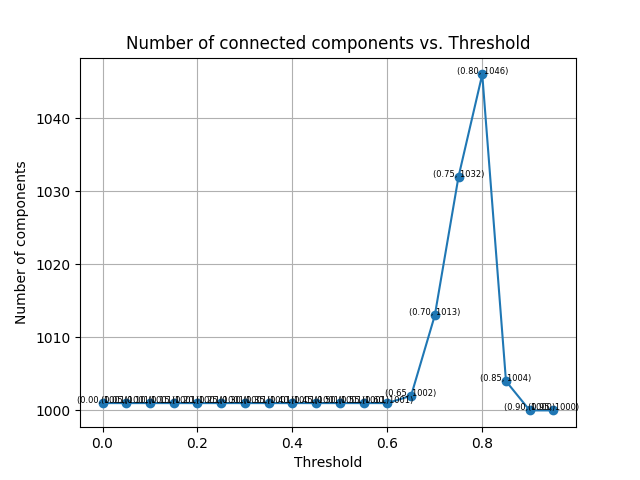
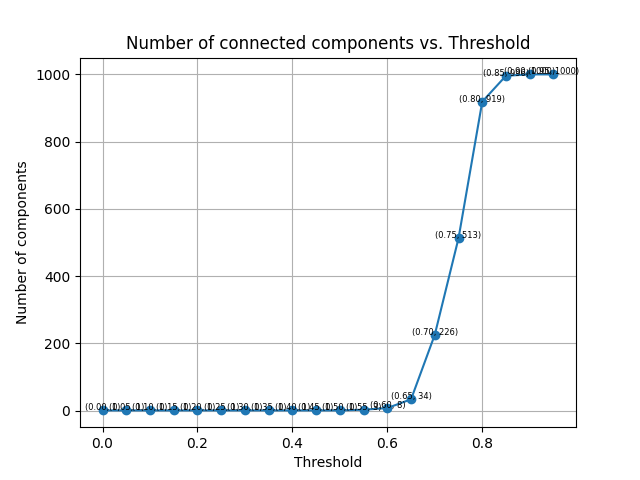
scikit-learn cosine similarity plots

diff --git a/network_building.py b/network_building.py
@@ -15,8 +15,6 @@ from gower import gower_matrix
 from preprocessing import remove_all_except_for, remove_column
 from sklearn.metrics.pairwise import cosine_similarity
 
-from statistics import distribution_over_nodes_count
-
 def create_network(df: DataFrame, similarity_threshold: float, name="Network", no_logs=False):
     if not no_logs:
         print("Creating the network...")
@@ -32,8 +30,8 @@ def create_network(df: DataFrame, similarity_threshold: float, name="Network", n
     if not no_logs:
         print(f"Added {nodes_counter} nodes")
 
-    similarities = get_similarities(df, "gower")
-    # distribution_over_nodes_count(similarities, title=name, x_label="cosine's similarity values")
+    similarities = get_similarities(df, "numpy-cosine")
+    # distribution_over_nodes_count(similarities, title=name, x_label="scikit-learn-cosine's similarity values")
     counter = 0
     for i, j in itertools.combinations(df.index, 2):  # creates all combinations of possible edges
         similarity = similarities[i, j]
@@ -44,8 +42,6 @@ def create_network(df: DataFrame, similarity_threshold: float, name="Network", n
         print(f"Added {counter} edges")
         print("Done.")
     return graph
-
-
 
 
 def get_similarities(df: DataFrame, similarity_metric: string):
@@ -95,14 +91,15 @@ def plot_network(graph: Graph, file_path=""):
     pos = spring_layout(graph)
     labels = {node: value['ID'] for node, value in graph.nodes(data=True)}
     draw_networkx_nodes(graph, pos=pos, node_size=80)
-    draw_networkx_edges(graph, pos=pos,  width=0.5)
+    draw_networkx_edges(graph, pos=pos, width=0.5)
     draw_networkx_labels(graph, pos=pos, font_size=8, labels=labels)
     draw(graph, with_labels=True, alpha=0.75)
     if file_path == "":
         file_path = get_file_path(graph_name=graph.name)
     print(f"Saving in {file_path}")
     n = number_connected_components(graph)
-    plt.legend([f'Connected components: {n}', f'Nodes: {graph.number_of_nodes()}, Edges: {graph.number_of_edges()}'], loc='upper right')
+    plt.legend([f'Connected components: {n}', f'Nodes: {graph.number_of_nodes()}, Edges: {graph.number_of_edges()}'],
+               loc='upper right')
     plt.savefig(file_path)
     plt.close()
     print("Done.")

diff --git a/main.py b/main.py
@@ -1,6 +1,4 @@
-from networkx import number_connected_components
-
-from network_building import create_network, plot_network, create_networks_using_one_column
+from network_building import create_network, plot_network
 from preprocessing import load_dataset_csv, filter_by
 from statistics import components_over_threshold
 
@@ -16,7 +14,7 @@ data = filter_by(data, "Country", "Italy",  number_of_rows=1000)
 data.to_csv(path_or_buf="./dataset/filtered.csv")
 
 # for creating the plot regarding the number of connected components with respect to the threshold
-components_over_threshold(data, title="gower_components_over_threshold")
+components_over_threshold(data, title="numpy_cosine_components_over_threshold")
 
-#graph = create_network(data, similarity_threshold=SIMILARITY_THRESHOLD, name="Travel Survey gower similarity network")
-#plot_network(graph)
+graph = create_network(data, similarity_threshold=SIMILARITY_THRESHOLD, name="Travel Survey numpy-cosine similarity network")
+plot_network(graph)
